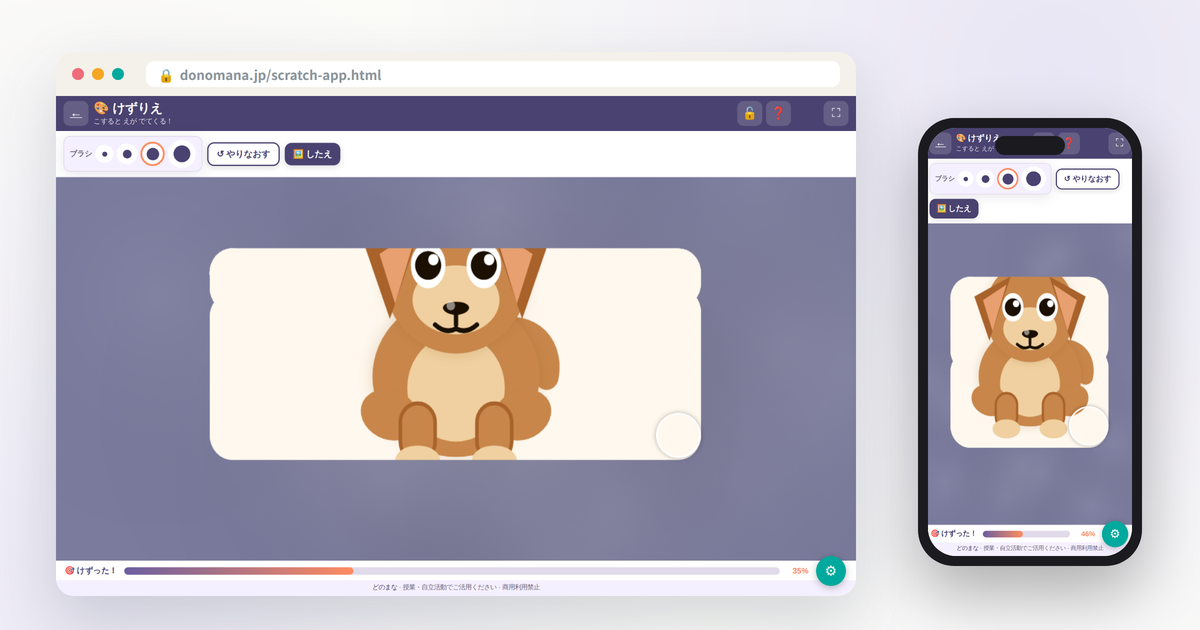
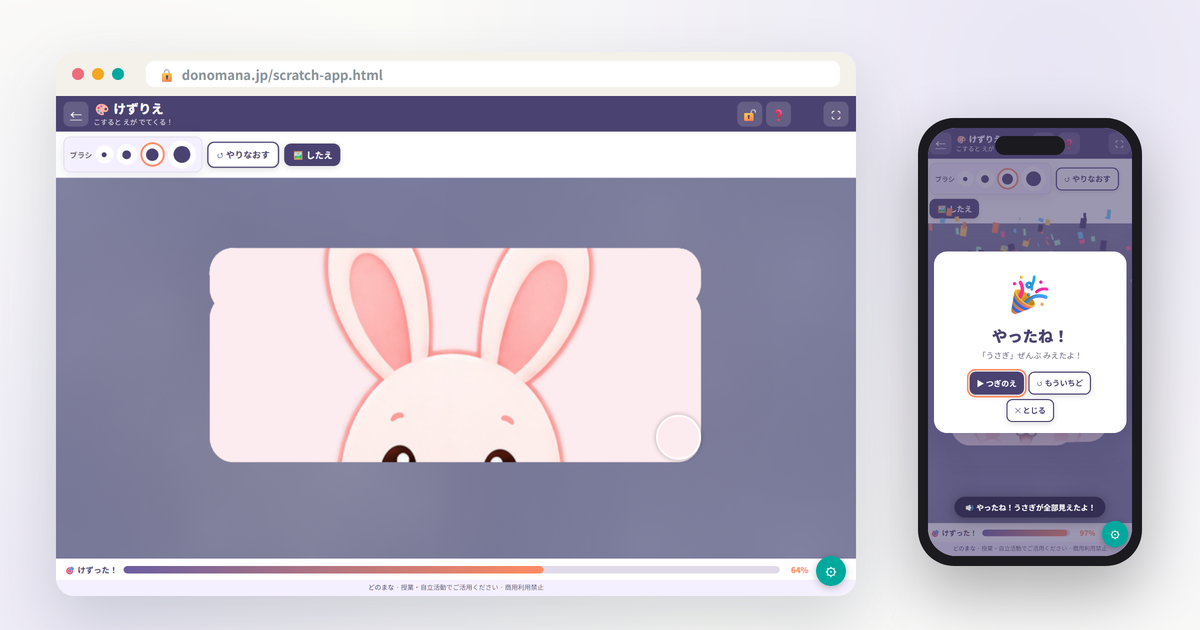
feat: release scratch illustration refresh
「けずりえ」の下絵Visual Refresh(Phase M9.5 RC e873d2e)をProductionへ反映。
apps-data.json/app-intro.html/index.html/app-details上の「12種類」表記を
実装に合わせて6種類(うさぎ・ねこ・いぬ・ひよこ・くま・おほしさま)へ整合し、
mockup/iconをscratch-appのみ再生成。更新履歴(2026-08-14)へ反映。

あわせて、resize()内のchkDone()がリサイズ後の_imgRect再計算(非同期)より
先に実行され、「えのぶぶんだけ」判定モードで通常の画面回転により進捗が
誤って跳ね上がる既存不具合(Visual Refresh前から存在、Local Validationで
発見)を、判定を80ms遅延させる最小修正で解消。

diff --git a/index.html b/index.html
@@ -1564,7 +1564,7 @@
         ],
         "name": "けずりえ",
         "url": "https://donomana.jp/app-details/scratch-app-detail.html",
-        "description": "画面をゆびでこすると隠れた絵が少しずつ現れるスクラッチ遊びアプリです。自分の操作によって画面が変化するという因果関係の理解を促し、探索的・継続的な操作行動を育てます。いぬ・ねこ・にじなど12種類のCa",
+        "description": "画面をゆびでこすると隠れた絵が少しずつ現れるスクラッチ遊びアプリです。自分の操作によって画面が変化するという因果関係の理解を促し、探索的・継続的な操作行動を育てます。うさぎ・ねこ・いぬなど6種類のかわ",
         "learningResourceType": "教育用ICTアプリ",
         "isAccessibleForFree": true,
         "inLanguage": "ja",
@@ -2185,7 +2185,7 @@
 
 <script>
 const CHANGELOG = [
-  { date: "2026年8月14日", type: "design", text: "「みるとひろがる」のデザインを、より楽しく親しみやすく改善しました。", updateCount: 1 },
+  { date: "2026年8月14日", type: "design", text: "アプリのデザインを、より楽しく親しみやすく改善しました。", updateCount: 1 },
   { date: "2026年8月13日", type: "new", text: "新しい教材を2つ追加し、「かたちをあわせよう」を改善しました", details: ["「みるとひろがる」を公開しました","「どこかな？みーつけた！」を公開しました","「かたちをあわせよう」に大きさを見分ける学習を追加し、図形の見やすさや操作性も改善しました"], updateCount: 3 },
   { date: "2026年8月12日", type: "new", text: "新しい教材を2つ追加し、いくつかの教材を改善しました", details: ["「おおきい？ちいさい？くらべよう」を公開しました","「おおきい？ちいさい？くらべよう」に「ながい・みじかい」の学習や、大きさ・長さの順に3つ並べる学習を追加し、問題数の選択や学習記録の確認・CSV書き出しができるようにしました。また、画面の見やすさや操作性も改善しました。","「かたちをあわせよう」を公開しました","「かたちをあわせよう」の図形の見やすさ、操作性を改善しました","「なぞり書き練習ツール」で、スイッチ操作中にスペースキーやEnterキーでボタンを選べない問題を修正しました。","「視線入力キーボード」で、よく使うフレーズやAACカード、予測変換の候補を選んでも、入力欄に反映されないことがある問題を修正しました。","「ひらがな まなぼう！」で、スイッチ操作のときに1回の操作で複数回反応してしまうことがある問題（マッチングで選んでもすぐ選択が消えてしまうなど）と、スイッチ操作を終了した直後に、選択位置が意図せず動いてしまうことがある問題を修正しました。","「すうじ まなぼう！」で、スイッチ操作のときに1回の操作で複数回反応してしまうことがある問題（マッチングで選んでもすぐ選択が消えてしまうなど）と、スイッチ操作を終了した直後に、選択位置が意図せず動いてしまうことがある問題を修正しました。"], updateCount: 8 },
   { date: "2026年8月11日", type: "update", text: "いくつかの教材を改善しました", details: ["「すごろく」スイッチ操作でスキャンをオフにした直後に、選んだボタンのハイライトが消えずに残ってしまうことがある問題を修正しました。","「おんがくあそび」スイッチ操作でスキャン中に、アクセシビリティ設定などの共通ボタンを選んで決定すると操作できなくなる問題を修正しました。"], updateCount: 2 },
@@ -2421,7 +2421,7 @@ const APPS = [
     category: "jiritsu", cardClass: "card-scratch-app", isNew: true,
     need:[], input:["touch","gaze"],
     needText:"", inputText:"touch タッチ gaze 視線 視線入力",
-    a11yText:"👁 視線入力モード：マウス移動で自動削り（視線入力デバイスのマウスエミュレーションに対応） 🎨 ハイコントラスト：白黒・高コントラスト表示に切り替え 🔤 文字サイズ：標準・大・特大の3段階 🔊 タップ読み上げ：ボタンタップ時にラベルを日本語で読み上げ（速さ調整可） 🔊 完成時読み上げ：「やったね！○○が全部見えたよ！」と自動読み上げ ⛶ 全画面表示：キャンバスを画面いっぱいに拡大して端まで削りやすく 🔒 画面ロック：ブラウザの戻る操作・前画面への遷移を防止", featuresText:"タッチ・視線入力でけずる 完成判定・お祝いエフェクト 12種のCanvas描画イラスト 写真＋テキスト合成エディタ 画面ロック機能 はんていのはんい選択 全画面表示"
+    a11yText:"👁 視線入力モード：マウス移動で自動削り（視線入力デバイスのマウスエミュレーションに対応） 🎨 ハイコントラスト：白黒・高コントラスト表示に切り替え 🔤 文字サイズ：標準・大・特大の3段階 🔊 タップ読み上げ：ボタンタップ時にラベルを日本語で読み上げ（速さ調整可） 🔊 完成時読み上げ：「やったね！○○が全部見えたよ！」と自動読み上げ ⛶ 全画面表示：キャンバスを画面いっぱいに拡大して端まで削りやすく 🔒 画面ロック：ブラウザの戻る操作・前画面への遷移を防止", featuresText:"タッチ・視線入力でけずる 完成判定・お祝いエフェクト 6種のかわいい下絵 写真＋テキスト合成エディタ 画面ロック機能 はんていのはんい選択 全画面表示"
   },
   {
     name: "視線キーボード", link: "app-details/gaze-keyboard-detail.html", icon: "⌨", iconImg: "assets/icons/gaze-keyboard.png", mockupImg: "assets/mockups/gaze-keyboard.png", desc: "知的障害・肢体不自由を併せ有する方向けのブラウザキーボードア", tag: "視線入力・AAC・文字入力・コミュニケーション・スキャン入力",

diff --git a/app-details/scratch-app-detail.html b/app-details/scratch-app-detail.html
@@ -37,7 +37,7 @@
     "LearningResource"
   ],
   "name": "けずりえ",
-  "description": "画面をゆびでこすると隠れた絵が少しずつ現れるスクラッチ遊びアプリです。自分の操作によって画面が変化するという因果関係の理解を促し、探索的・継続的な操作行動を育てます。いぬ・ねこ・にじなど12種類のCa",
+  "description": "画面をゆびでこすると隠れた絵が少しずつ現れるスクラッチ遊びアプリです。自分の操作によって画面が変化するという因果関係の理解を促し、探索的・継続的な操作行動を育てます。うさぎ・ねこ・いぬなど6種類のかわ",
   "url": "https://donomana.jp/app-details/scratch-app-detail.html",
   "image": "https://donomana.jp/assets/mockups/scratch-app.png",
   "applicationCategory": "EducationalApplication",
@@ -215,7 +215,7 @@
   </a>
   <div class="card">
     <h2 class="card-title">概要・ねらい</h2>
-    <p class="summary-text">画面をゆびでこすると隠れた絵が少しずつ現れるスクラッチ遊びアプリです。自分の操作によって画面が変化するという因果関係の理解を促し、探索的・継続的な操作行動を育てます。いぬ・ねこ・にじなど12種類のCanvas描画イラストに加え、写真やオリジナルテキストを下絵として自由に作成できます。タッチ・視線入力・マウス操作に対応し、重度重複障害のある子どもも取り組めるよう設計されています。</p>
+    <p class="summary-text">画面をゆびでこすると隠れた絵が少しずつ現れるスクラッチ遊びアプリです。自分の操作によって画面が変化するという因果関係の理解を促し、探索的・継続的な操作行動を育てます。うさぎ・ねこ・いぬなど6種類のかわいい下絵に加え、写真やオリジナルテキストを下絵として自由に作成できます。タッチ・視線入力・マウス操作に対応し、重度重複障害のある子どもも取り組めるよう設計されています。</p>
   </div>
   <div class="card">
     <h2 class="card-title">主な機能</h2>
@@ -230,7 +230,7 @@
       </div>
       <div class="feature-item">
         <span class="fi-icon">🖼</span>
-        <span class="fi-text"><strong>12種のCanvas描画イラスト</strong><br>いぬ・ねこ・りんご・ひまわり・くま・きんぎょ・でんしゃ・けーき・ばす・ちょうちょ・にじ・たいようの12種類を収録。絵文字ではなくCanvas APIで丁寧に描いたイラストです。</span>
+        <span class="fi-text"><strong>6種のかわいい下絵</strong><br>うさぎ・ねこ・いぬ・ひよこ・くま・おほしさまの6種類を収録。画風の統一された、親しみやすいイラストです。</span>
       </div>
       <div class="feature-item">
         <span class="fi-icon">✏</span>
@@ -256,7 +256,7 @@
         <div class="step-num">1</div>
         <div class="step-body">
           <div class="step-label">①したえをえらぶ</div>
-          <div class="step-desc">⚙設定から好きな下絵を選びます。デフォルト12種のほか、写真やテキストでオリジナルを作ることもできます。</div>
+          <div class="step-desc">⚙設定から好きな下絵を選びます。デフォルト6種のほか、写真やテキストでオリジナルを作ることもできます。</div>
         </div>
       </div>
       <div class="step">

diff --git a/scratch-app.html b/scratch-app.html
@@ -61,7 +61,7 @@
 <!-- /design-tokens -->
 <!-- seo-tags: 自動挿入 (generate.js) -->
 <link rel="canonical" href="https://donomana.jp/app-details/scratch-app-detail.html">
-<meta name="description" content="画面をゆびでこすると隠れた絵が少しずつ現れるスクラッチ遊びアプリです。自分の操作によって画面が変化するという因果関係の理解を促し、探索的・継続的な操作行動を育てます。うさぎ・ねこ・いぬなど6種類のかわいいイラスト 特別支援教育向けの無料Webアプリ。インストール不要でブラウザからすぐ使えます。">
+<meta name="description" content="画面をゆびでこすると隠れた絵が少しずつ現れるスクラッチ遊びアプリです。自分の操作によって画面が変化するという因果関係の理解を促し、探索的・継続的な操作行動を育てます。うさぎ・ねこ・いぬなど6種類のかわいい下絵に加え、写真 特別支援教育向けの無料Webアプリ。インストール不要でブラウザからすぐ使えます。">
 <!-- /seo-tags -->
 <meta name="description" content="画面をタッチやなぞると下の絵が見えてくるスクラッチ遊びアプリ。重度重複障害のあるお子さんの因果関係学習に。">
 <link rel="preconnect" href="https://fonts.googleapis.com">
@@ -1072,7 +1072,10 @@ function resize(){
   if(savedScratch){
     sctx.clearRect(0,0,W,H);
     sctx.drawImage(savedScratch,0,0,oldW,oldH,0,0,W,H);
-    chkDone();
+    // drawUnder()が非同期でスケジュールするdetectImgRect()(50ms後)より後に判定する。
+    // 先に判定してしまうと、リサイズ前の古い座標の_imgRectを新しいcanvasサイズに
+    // 誤って適用し、「えのぶぶんだけ」モードで進捗が誤って跳ね上がることがあるため。
+    setTimeout(()=>chkDone(),80);
   } else {
     fillScr();
     cvFilled=true;

diff --git a/generate.js b/generate.js
@@ -1610,9 +1610,9 @@ function updateAppIntroHTML(apps) {
 //   修正箇所を配列で書くと、更新履歴上でクリックすると開く内訳として表示される。
 //   例: details: ["音が鳴らない問題を修正", "設定が保存されない問題を修正"]
 const MANUAL_CHANGELOG = [
-  { date: "2026-08-14", type: "design", text: "「みるとひろがる」のデザインを、より楽しく親しみやすく改善しました。", details: [
-    "6種類のかわいいおもちゃが登場する「おもちゃのへや」に生まれ変わりました。",
-    "働きかけると、おもちゃが動いたり音が鳴ったりして応えてくれます。",
+  { date: "2026-08-14", type: "design", text: "アプリのデザインを、より楽しく親しみやすく改善しました。", details: [
+    "「みるとひろがる」は、6種類のかわいいおもちゃが登場する「おもちゃのへや」に生まれ変わりました。働きかけると、おもちゃが動いたり音が鳴ったりして応えてくれます。",
+    "「けずりえ」の下絵イラストを、より親しみやすく改善しました。",
   ] },
   { date: "2026-08-13", type: "update", text: "各アプリの不具合をまとめて修正しました。", details: [
     "「かたちをあわせよう」に大きさを見分ける学習を追加し、図形の見やすさや操作性も改善しました",
